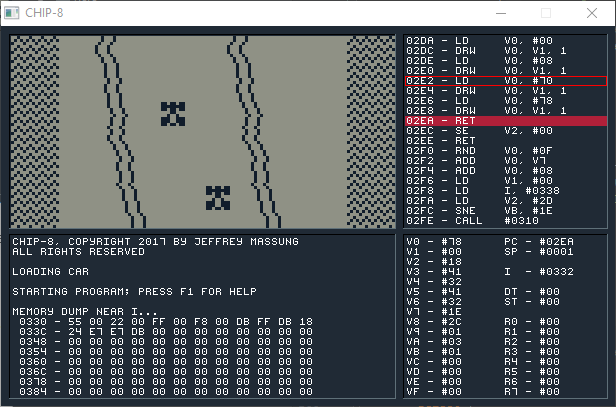
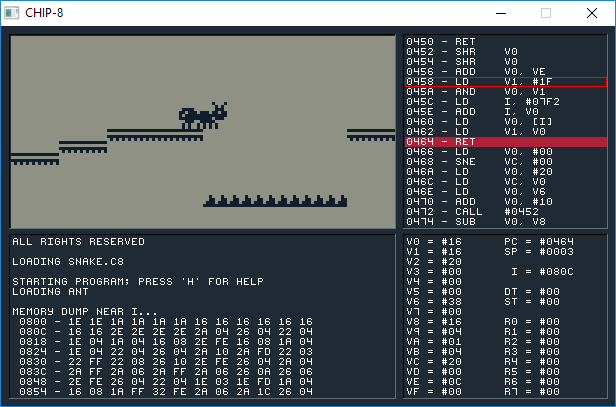
Fixed crash in scrolling. New screenshot. Changed hot keys. Added ROM/C8 load dialogs (F3). Added step over (F7). Updated README.

diff --git a/chip8/chip8.go b/chip8/chip8.go
@@ -24,10 +24,10 @@ type CHIP_8 struct {
 	/// Video memory for CHIP-8 (64x32 bits). Each bit represents a
 	/// single pixel. It is stored MSB first. For example, pixel <0,0>
 	/// is bit 0x80 of byte 0. 4x the video memory is used for the
-	/// CHIP-48, which is 128x64 resolution. There is an extra byte
-	/// to prevent overflows.
+	/// CHIP-48, which is 128x64 resolution. There are 4 extra lines
+	/// to prevent overflows when scrolling.
 	///
-	Video [0x401]byte
+	Video [0x440]byte
 
 	/// The stack was in a reserved section of memory on the 1802.
 	/// Originally it was only 12-cells deep, but later implementations
@@ -75,8 +75,9 @@ type CHIP_8 struct {
 	Cycles int64
 
 	/// Speed is how many cycles (instructions) should execute per second.
-	/// By default this is 1000. The RCA CDP1802 ran at 1.76 MHz, with each
-	/// instruction taking 16-24 clock cycles.
+	/// By default this is 700. The RCA CDP1802 ran at 1.76 MHz, with each
+	/// instruction taking 16-24 clock cycles, which is a bit over 70,000
+	/// instructions per second.
 	///
 	Speed int64
 
@@ -112,6 +113,10 @@ type Breakpoint struct {
 	/// Conditional is true if the breakpoint only trips when VF != 0.
 	///
 	Conditional bool
+
+	/// Once is true if the breakpoint should be removed once hit.
+	///
+	Once bool
 }
 
 /// Error implements the error interface for a Breakpoint.
@@ -149,7 +154,7 @@ func LoadROM(program []byte) (*CHIP_8, int) {
 	// initialize any data that doesn't Reset()
 	vm := &CHIP_8{
 		Breakpoints: make(map[int]Breakpoint),
-		Speed: 1000,
+		Speed: 700,
 	}
 
 	// copy the RCA 1802 512 byte ROM into the CHIP-8
@@ -200,7 +205,7 @@ func (vm *CHIP_8) Reset() {
 	}
 
 	// reset video memory
-	vm.Video = [0x401]byte{}
+	vm.Video = [0x440]byte{}
 
 	// reset keys
 	vm.Keys = [16]bool{}
@@ -253,26 +258,30 @@ func (vm *CHIP_8) HighRes() bool {
 
 /// IncSpeed increases CHIP-8 virtual machine performance.
 ///
-func (vm *CHIP_8) IncSpeed() {
-	if vm.Speed < 2000 {
+func (vm *CHIP_8) IncSpeed() int {
+	if vm.Speed < 15000 {
 		vm.Speed += 200
 
 		// reset the clock
 		vm.Clock = time.Now().UnixNano()
 		vm.Cycles = 0
 	}
+
+	return int(vm.Speed * 100 / 700)
 }
 
 /// DecSpeed lowers CHIP-8 virtual machine performance.
 ///
-func (vm *CHIP_8) DecSpeed() {
-	if vm.Speed > 200 {
+func (vm *CHIP_8) DecSpeed() int {
+	if vm.Speed > 100 {
 		vm.Speed -= 200
 
 		// reset the clock
 		vm.Clock = time.Now().UnixNano()
 		vm.Cycles = 0
 	}
+
+	return int(vm.Speed * 100 / 700)
 }
 
 /// SetBreakpoint at a ROM Address to the CHIP-8 virtual machine.
@@ -280,6 +289,20 @@ func (vm *CHIP_8) DecSpeed() {
 func (vm *CHIP_8) SetBreakpoint(b Breakpoint) {
 	if b.Address >= 0x200 && b.Address < len(vm.ROM) {
 		vm.Breakpoints[b.Address] = b
+	}
+}
+
+/// SetOverBreakpoint creates a one-time breakpoint on the next instruction.
+///
+func (vm *CHIP_8) SetOverBreakpoint() {
+	a := int(vm.PC) + 2
+
+	if _, ok := vm.Breakpoints[a]; !ok {
+		vm.SetBreakpoint(Breakpoint{
+			Address: a,
+			Reason: "Step",
+			Once: true,
+		})
 	}
 }
 
@@ -295,7 +318,10 @@ func (vm *CHIP_8) ToggleBreakpoint() {
 	a := int(vm.PC)
 
 	if _, ok := vm.Breakpoints[a]; !ok {
-		vm.SetBreakpoint(Breakpoint{Address: a, Reason: "User break"})
+		vm.SetBreakpoint(Breakpoint{
+			Address: a,
+			Reason: "User break",
+		})
 	} else {
 		vm.RemoveBreakpoint(a)
 	}
@@ -512,6 +538,10 @@ func (vm *CHIP_8) Step() error {
 	// if at a breakpoint, return it
 	if b, ok := vm.Breakpoints[int(vm.PC)]; ok {
 		if !b.Conditional || vm.V[0xF] != 0 {
+			if b.Once {
+				delete(vm.Breakpoints, int(vm.PC))
+			}
+
 			return b
 		}
 	}
@@ -627,11 +657,11 @@ func (vm *CHIP_8) scrollDown(n byte) {
 func (vm *CHIP_8) scrollRight() {
 	shift := vm.Pitch>>2
 
-	for i := uint(0x3FF);i >= 0;i-- {
+	for i := 0x3FF;i >= 0;i-- {
 		vm.Video[i] >>= shift
 
 		// get the lower bits from the previous byte
-		if i&(vm.Pitch-1) > 0 {
+		if uint(i)&(vm.Pitch-1) > 0 {
 			vm.Video[i] |= vm.Video[i-1] << (8-shift)
 		}
 	}

diff --git a/main.go b/main.go
@@ -11,13 +11,10 @@ import (
 
 	"github.com/massung/chip-8/chip8"
 	"github.com/veandco/go-sdl2/sdl"
+	"github.com/sqweek/dialog"
 )
 
 var (
-	/// The file to load as a ROM or assemble.
-	///
-	File string
-
 	/// True if the ROM should load paused.
 	///
 	Break bool
@@ -47,7 +44,7 @@ func main() {
 	flag.Parse()
 
 	// get the file name of the ROM to load
-	File = flag.Arg(0)
+	file := flag.Arg(0)
 
 	// initialize SDL or panic
 	if err = sdl.Init(sdl.INIT_VIDEO | sdl.INIT_AUDIO); err != nil {
@@ -81,7 +78,7 @@ func main() {
 	fmt.Println()
 
 	// create a new CHIP-8 virtual machine
-	Load()
+	Load(file)
 
 	// initialize sub-systems
 	InitScreen()
@@ -96,7 +93,7 @@ func main() {
 	video := time.NewTicker(time.Second / 60)
 
 	// notify that the main loop has started
-	fmt.Println("\nStarting program; press F1 for help")
+	fmt.Println("\nStarting program; press 'H' for help")
 
 	// loop until window closed or user quit
 	for ProcessEvents() {
@@ -118,19 +115,33 @@ func main() {
 	}
 }
 
-func Load() {
-	if File == "" {
+func LoadDialog() {
+	dlg := dialog.File().Title("Load ROM / C8 Assembler")
+
+	// types of files to load
+	dlg.Filter("All Files", "*")
+	dlg.Filter("C8 Assembler Files", "c8", "chip8")
+	dlg.Filter("ROMs", "rom", "")
+
+	// try and load it
+	if file, err := dlg.Load(); err == nil {
+		Load(file)
+	}
+}
+
+func Load(file string) {
+	if file == "" {
 		fmt.Print("Loading PONG... ")
 		VM, _ = chip8.LoadROM(chip8.Pong)
 	} else {
-		base := filepath.Base(File)
+		base := filepath.Base(file)
 
 		// show the action being taken
 		fmt.Println("Loading", base)
 
 		// is this a chip-8 assembly source file?
 		if strings.ToUpper(filepath.Ext(base)) == ".C8" {
-			asm, err := chip8.Assemble(File)
+			asm, err := chip8.Assemble(file)
 			if err != nil {
 				fmt.Println(err)
 			}
@@ -138,7 +149,7 @@ func Load() {
 			// even on error, the assembly is valid
 			VM, _ = chip8.LoadAssembly(asm)
 		} else {
-			VM, _ = chip8.LoadFile(File)
+			VM, _ = chip8.LoadFile(file)
 		}
 	}
 }

diff --git a/input.go b/input.go
@@ -41,6 +41,15 @@ func ProcessEvents() bool {
 				switch ev.Keysym.Scancode {
 				case sdl.SCANCODE_ESCAPE:
 					return false
+				case sdl.SCANCODE_BACKSPACE:
+					VM.Reset()
+
+					// holding control during reset will reboot paused
+					if ev.Keysym.Mod & sdl.KMOD_CTRL != 0 {
+						Paused = true
+					}
+				case sdl.SCANCODE_F3:
+					LoadDialog()
 				case sdl.SCANCODE_UP, sdl.SCANCODE_PAGEUP:
 					DebugLogScroll(-1)
 				case sdl.SCANCODE_DOWN, sdl.SCANCODE_PAGEDOWN:
@@ -49,28 +58,31 @@ func ProcessEvents() bool {
 					DebugLogHome()
 				case sdl.SCANCODE_END:
 					DebugLogEnd()
-				case sdl.SCANCODE_F1:
+				case sdl.SCANCODE_H:
 					DebugHelp()
-				case sdl.SCANCODE_SPACE:
-					Paused = !Paused
 				case sdl.SCANCODE_LEFTBRACKET:
 					VM.DecSpeed()
 				case sdl.SCANCODE_RIGHTBRACKET:
 					VM.IncSpeed()
+				case sdl.SCANCODE_F5, sdl.SCANCODE_SPACE:
+					Paused = !Paused
+				case sdl.SCANCODE_F6:
+					if Paused {
+						VM.Step()
+					}
+				case sdl.SCANCODE_F7:
+					if Paused {
+						VM.SetOverBreakpoint()
+						Paused = false
+					}
+				case sdl.SCANCODE_F8:
+					if Paused {
+						DebugMemory()
+					}
 				case sdl.SCANCODE_F9:
 					if Paused {
 						VM.ToggleBreakpoint()
 					}
-				case sdl.SCANCODE_F10:
-					if Paused {
-						VM.Step()
-					}
-				case sdl.SCANCODE_F11:
-					DebugMemory()
-				case sdl.SCANCODE_F12:
-					SaveScreen()
-				case sdl.SCANCODE_BACKSPACE:
-					VM.Reset()
 				}
 			}
 		case *sdl.KeyUpEvent:

diff --git a/debug.go b/debug.go
@@ -57,17 +57,19 @@ func InitDebug() {
 /// Show the HELP text in the log.
 ///
 func DebugHelp() {
-	fmt.Println("\nEmulation keys:")
-	fmt.Println(" [ / ]   - Adjust speed")
-	fmt.Println(" PG U/D  - Scroll log")
-	fmt.Println(" BACK    - Reboot")
-	fmt.Println(" SPACE   - Pause/break")
-	fmt.Println(" F3      - Save VM")
-	fmt.Println(" F4      - Load VM")
-	fmt.Println(" F9      - Set breakpoint")
-	fmt.Println(" F10     - Step")
-	fmt.Println(" F11     - View memory")
-	fmt.Println(" F12     - Save screenshot")
+	fmt.Println()
+	fmt.Println("Keys        | Description")
+	fmt.Println("------------+-------------------------------------")
+	fmt.Println("BACK        | Reboot (+CTRL to break on reset)")
+	fmt.Println("[ / ]       | Deacrease/increase speed")
+	fmt.Println("HOME / END  | Scroll log")
+	fmt.Println("PGUP / PGDN | Scroll log")
+	fmt.Println("F3          | Load ROM / C8 assembler")
+	fmt.Println("F5          | Pause/break")
+	fmt.Println("F6          | Step")
+	fmt.Println("F7          | Step over")
+	fmt.Println("F8          | Debug memory")
+	fmt.Println("F9          | Set breakpoint")
 }
 
 /// DebugAssembly renders the disassembled instructions around

diff --git a/README.md b/README.md
@@ -1,6 +1,6 @@
 # CHIP-8 Emulator
 
-![CHIP-8 Screenshot](data/screenshot.png "The game 'CAR'")
+![CHIP-8 running ANT](data/screenshot.png "The game 'ANT'")
 
 CHIP-8 is an assembler, debugger, and emulator for the [COSMAC ELF][2] [CHIP-8][3] interpreter and its derivative: the Super CHIP-8, which ran on HP-48 calculators. Everything is emulated as well as possible: the video display refreshes at 60 Hz and sound is emulated as well.
 
@@ -16,7 +16,7 @@ CHIP-8 [-b] [ROM|C8]
 
 Simply pass the filename of the ROM or a .C8 assembly source file to the executable and CHIP-8 will load it, assemble if required, and begin running it. If no ROM or C8 file is specified then a default ROM ([Pong](https://en.wikipedia.org/wiki/Pong)) is loaded. 
 
-Once the program is running, press `F1` at any time to see the list of key commands available to you. But here's a quick breakdown:
+Once the program is running, press `H` at any time to see the list of key commands available to you. But here's a quick breakdown:
 
 | Emulation         | Description
 |:------------------|:-----------------
@@ -24,18 +24,15 @@ Once the program is running, press `F1` at any time to see the list of key comma
 | `Ctrl`+`Back`     | Reset and pause
 | `[`               | Decrease emulation speed
 | `]`               | Increase emulation speed
-
-| Images            | Description
-|:------------------|:-----------------
-| `F1`..`F4`        | Save image to slot (1-4)
-| `Ctrl`+`F1`..`F4` | Load image from slot (1-4)
+| `F3`              | Load ROM or C8 assembler file
 
 | Debugging         | Description
 |:------------------|:-----------------
 | `F5`              | Pause/break emulation
+| `F6`              | Single step
+| `F7`              | Step over
+| `F8`              | Dump memory at `I` register
 | `F9`              | Toggle breakpoint
-| `F10`             | Single step
-| `F11`             | Dump memory at `I` register
 
 ### Virtual Key Mapping
 
